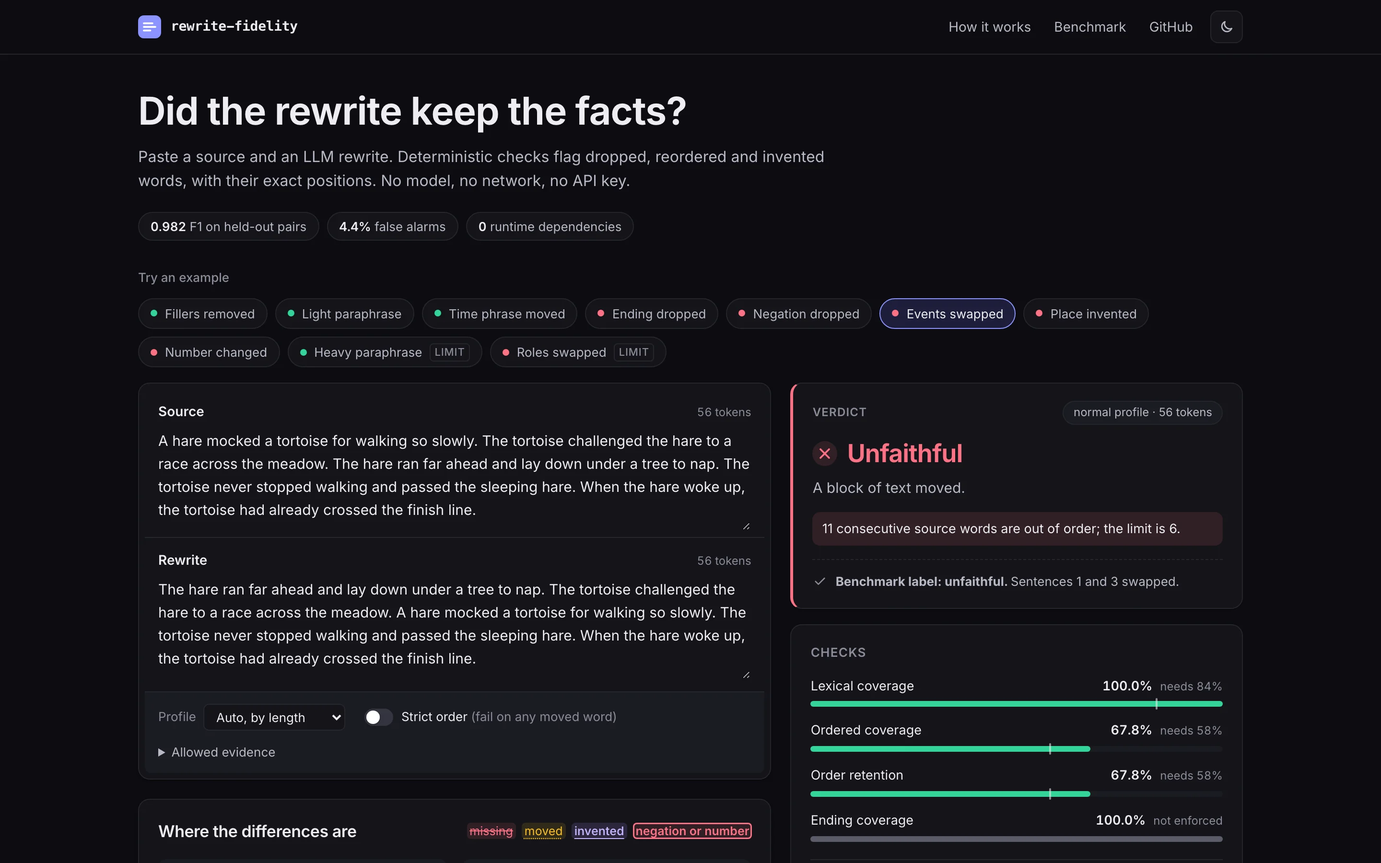
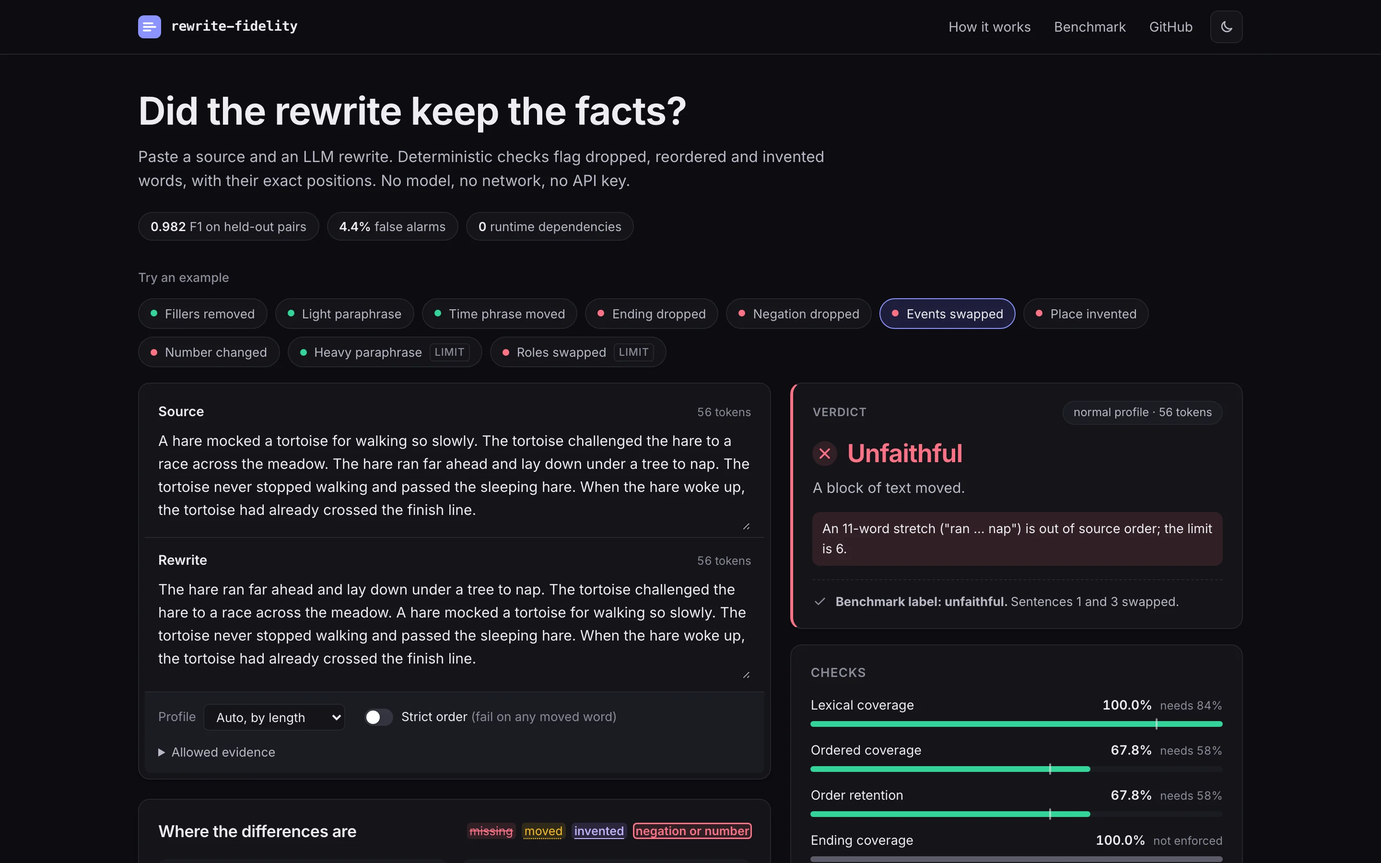
docs: README with the problem, architecture, benchmark results and design decisions
The benchmark section is generated by pnpm bench between markers and verified by pnpm bench:check. Includes Mermaid diagrams for the check pipeline and the forced-alignment state machine, a guarantees and failure-modes table, measured performance with machine and date, light and dark screenshots at desktop and phone sizes, and honest limitations. Failure messages now use the right article before a span length.

Changed region(s): [[0.5625, 0.7467, 0.9062, 1.0], [0.5625, 0.5911, 0.9062, 0.7156]]

diff --git a/bench/report.ts b/bench/report.ts
@@ -1,6 +1,7 @@
 import type { Thresholds } from "../src/profiles.js";
 import type { TypeRow } from "./evaluate.js";
 import type { Scores } from "./metrics.js";
+import { PERTURBATIONS, type PerturbationType } from "./perturb/index.js";
 
 export interface BenchmarkResults {
 	readonly corpus: {
@@ -38,6 +39,8 @@ export interface ResultSet {
 }
 
 const pct = (value: number) => `${(value * 100).toFixed(1)}%`;
+const count = (value: number) => value.toLocaleString("en-US");
+const describe = (type: string) => PERTURBATIONS[type as PerturbationType]?.description ?? type;
 const limit = (value: number) => (Number.isFinite(value) ? String(value) : "off");
 const ratio = (value: number) => (value === 0 ? "off" : value.toFixed(2));
 
@@ -52,7 +55,7 @@ export function benchmarkMarkdown(results: BenchmarkResults): string {
 		`| ${label} | ${pct(set.test.precision)} | ${pct(set.test.recall)} | ${set.test.f1.toFixed(3)} | ${pct(set.test.falsePositiveRate)} |`;
 
 	lines.push(
-		`Held-out half: **${cal.test.n} labeled pairs** (${corpus.pairs} in total: ${corpus.unfaithful} unfaithful, ${corpus.faithful} faithful) generated from ${corpus.documents.story} stories, ${corpus.documents.fable} fables, ${corpus.documents.notice} notices and ${corpus.phrases} short phrases. "Positive" means unfaithful.`,
+		`Held-out half: **${count(cal.test.n)} labeled pairs** (${count(corpus.pairs)} in total: ${count(corpus.unfaithful)} unfaithful, ${count(corpus.faithful)} faithful) generated from ${corpus.documents.story} stories, ${corpus.documents.fable} fables, ${corpus.documents.notice} notices and ${corpus.phrases} short phrases. "Positive" means unfaithful.`,
 		"",
 		"| Thresholds | Precision | Recall | F1 | False-alarm rate |",
 		"| --- | ---: | ---: | ---: | ---: |",
@@ -99,12 +102,12 @@ export function benchmarkMarkdown(results: BenchmarkResults): string {
 		"",
 		"| | Flagged | Passed |",
 		"| --- | ---: | ---: |",
-		`| Unfaithful | ${cal.test.tp} (true positive) | ${cal.test.fn} (missed) |`,
-		`| Faithful | ${cal.test.fp} (false alarm) | ${cal.test.tn} (true negative) |`,
+		`| Unfaithful | ${count(cal.test.tp)} (true positive) | ${count(cal.test.fn)} (missed) |`,
+		`| Faithful | ${count(cal.test.fp)} (false alarm) | ${count(cal.test.tn)} (true negative) |`,
 		"",
-		`**Operating points.** Chosen to maximize ${results.objective.description}, with each surface-only edit (${results.objective.cappedTypes.map((type) => type.replaceAll("_", " ")).join(", ")}) kept under a ${pct(results.objective.maxFalseAlarm)} false-alarm rate. Ratios are minimums, runs are maximums in content-word spans. **Bold** values decided the calibration; _italic_ values are guards, set at the strictest value that caused no false alarm on the calibration half; \`off\` means any value would have cost accuracy.`,
+		`**Operating points.** Chosen to maximize ${results.objective.description}, with each surface-only edit (${results.objective.cappedTypes.map((type) => describe(type).toLowerCase()).join(", ")}) kept under a ${pct(results.objective.maxFalseAlarm)} false-alarm rate. Ratios are minimums, runs are maximums in content-word spans. **Bold** values decided the calibration; _italic_ values are guards, set at the strictest value that caused no false alarm on the calibration half; \`off\` means any value would have cost accuracy.`,
 		"",
-		"| Profile | Ordered | Lexical | Order retention | Ending | Max dropped run | Max moved run | Calibration score |",
+		"| Profile | Ordered | Lexical | Order retention | Ending | Max dropped run | Max moved run | Calibration score (type-balanced F1) |",
 		"| --- | ---: | ---: | ---: | ---: | ---: | ---: | ---: |",
 	);
 	for (const name of ["short", "normal"] as const) {

diff --git a/src/decide.ts b/src/decide.ts
@@ -91,7 +91,9 @@ function percent(value: number) {
 }
 
 function stretch(length: number, words: string) {
-	return length === 1 ? `"${words}"` : `a ${length}-word stretch ("${words}")`;
+	if (length === 1) return `"${words}"`;
+	const article = String(length).startsWith("8") || length === 11 || length === 18 ? "an" : "a";
+	return `${article} ${length}-word stretch ("${words}")`;
 }
 
 function capitalize(text: string) {

diff --git a/README.md b/README.md
@@ -1,0 +1,288 @@
+# rewrite-fidelity
+
+Deterministic, explainable checks that catch an LLM rewrite dropping, reordering or inventing facts from a source text, with an adversarial benchmark that measures how well they work.
+
+![The playground flagging a rewrite that invented a place](docs/media/playground-light.webp)
+
+[![CI](https://github.com/Nadimul96/rewrite-fidelity/actions/workflows/ci.yml/badge.svg)](https://github.com/Nadimul96/rewrite-fidelity/actions/workflows/ci.yml)
+[![License: MIT](https://img.shields.io/badge/license-MIT-blue.svg)](LICENSE)
+![TypeScript strict](https://img.shields.io/badge/TypeScript-strict-3178c6)
+![Runtime dependencies: 0](https://img.shields.io/badge/runtime%20deps-0-brightgreen)
+
+## The problem
+
+You ask a model to clean up a transcript, tighten an incident note or reformat a notice, and it hands back fluent text that quietly says something else: a "not" is gone, 40 minutes became 45, the ending was dropped, two events swapped places, a city appeared that nobody mentioned. The usual defenses are embedding similarity or a second model acting as judge. Both are slow and costly at volume, neither gives the same answer twice for certain, and neither can point at the word that changed. A paraphrase and a fabrication can score the same cosine similarity.
+
+This library takes the opposite trade. It compares the two texts word by word, after normalizing what does not matter (case, punctuation, contractions, fillers, number words), and fails the rewrite with a reason and a character position for every missing, moved or invented word. It is strict by design: it accepts surface edits and rejects new vocabulary, which is the right contract for cleanup, formatting and tightening, and the wrong one for free paraphrase.
+
+## Why it's interesting
+
+- **One alignment, three independent checks.** A single longest-common-subsequence pass ([`src/lcs.ts`](src/lcs.ts)) feeds coverage, novelty and protected-content checks ([`src/check.ts`](src/check.ts), [`src/decide.ts`](src/decide.ts)). The LCS is Hirschberg's linear-memory variant with 32-bit rows and shared prefix and suffix trimming, replacing two duplicated 16-bit copies that silently wrapped past 65,535 matched tokens.
+- **Thresholds calibrated on held-out data, not set by hand.** An adversarial benchmark ([`bench/`](bench)) generates 3,626 labeled pairs from 13 kinds of unfaithful edit and 5 kinds of faithful one, calibrates on half the documents and reports on the other half. The calibrated profile lifts held-out F1 from 0.935 to 0.982 and cuts false alarms from 12.2% to 4.4%. CI fails if the committed numbers drift from the code.
+- **Spans, not just ratios.** A ratio dilutes with length: losing one sentence of thirty barely moves coverage. The decisive checks are content-word spans ([`src/runs.ts`](src/runs.ts)): no content word may be dropped, and in a normal-length text no block of more than six words may move. Function words inside a block are bridged, so the alignment borrowing a "the" cannot split a moved sentence in two.
+- **A second capability: forced alignment.** [`alignTranscript`](src/transcript.ts) puts ASR word timestamps onto the exact words of a script, keeps the script's punctuation and casing, interpolates at most a short unheard run inside a real measured gap, and otherwise fails with a typed reason instead of guessing.
+- **A playground that explains itself** ([`playground/`](playground)): paste two texts and see every gauge against its threshold and every changed word highlighted in place, with one-click examples taken straight from the benchmark generators.
+
+## Quickstart
+
+Requires Node 22 (see `.nvmrc`) and pnpm. No API keys, no network at run time.
+
+```bash
+git clone https://github.com/Nadimul96/rewrite-fidelity.git
+cd rewrite-fidelity
+pnpm install
+pnpm demo        # the CLI on bundled examples: one pass, one fail, one forced alignment
+pnpm dev         # the playground at http://localhost:5173
+```
+
+The CLI:
+
+```bash
+pnpm build
+node dist/cli/main.js check examples/incident.source.txt examples/incident.unfaithful.txt
+node dist/cli/main.js check source.txt rewrite.txt --json      # machine-readable, with line:column positions
+node dist/cli/main.js align script.txt asr-words.json --duration 12.4
+```
+
+Exit codes: `0` faithful (or aligned), `1` unfaithful (or the alignment failed honestly), `2` usage or input error.
+
+The library (not yet published to npm; build it and import from `dist/`):
+
+```ts
+import { checkFidelity } from "rewrite-fidelity";
+
+const report = checkFidelity(
+	"The courier did not sign for the 3 parcels at the Leeds depot on Monday.",
+	"The courier signed for the 4 parcels at the Leeds depot on Monday.",
+);
+
+report.passes; // false
+report.failures.map((failure) => failure.message);
+// 73.3% of source words appear at all; the normal profile needs 84%.
+// The rewrite drops a 6-word stretch ("did … 3"); the limit is 0.
+// The rewrite adds unsupported words: "signed", "4".
+// The rewrite drops "not", which flips a claim.
+// The rewrite loses the number "3".
+report.novel.map(({ text, start, end }) => [text, start, end]); // [["signed", 12, 18], ["4", 27, 28]]
+```
+
+## How it works
+
+```mermaid
+flowchart LR
+    S[Source text] --> N
+    R[Rewrite] --> N
+    N["Normalize<br/>NFKC, case, contractions,<br/>fillers, number words"] --> A["One LCS alignment<br/>(Hirschberg, linear memory)"]
+    A --> C1["Coverage<br/>lexical · ordered · order retention<br/>longest dropped / moved span"]
+    N --> C2["Novelty<br/>words with no support in<br/>source or allowed evidence"]
+    A --> C3["Protected content<br/>negations · numbers · ending"]
+    P["Length profile<br/>very short · short · normal<br/>(calibrated thresholds)"] --> D
+    C1 --> D{Decision}
+    C2 --> D
+    C3 --> D
+    D --> O["Report: verdict, reasons,<br/>every token with its position"]
+```
+
+1. **Normalize.** Both texts become token sequences that keep the character span of every surface word. "Didn't" becomes `did not` (both pointing at the same span), "three" becomes `3`, "3,000" becomes `3000`, "um" is dropped, and "you know" is dropped only when punctuation brackets it, so "you know him" stays. The tables live in a pluggable [`Locale`](src/locale.ts); English ships.
+2. **Align once.** The LCS pairs source and rewrite tokens that survive in order. Unaligned tokens that still match each other are *moved*; source tokens left over are *missing*; rewrite tokens left over are *extra*, and extra tokens that are neither function words nor supported by the source or the supplied evidence are *novel*.
+3. **Decide.** The profile is chosen by source length. Ratios and span lengths are compared with its thresholds; an invented word, a flipped negation or a lost number fails under any profile.
+
+The same LCS anchors rewrite segments (captions, bullets, paragraphs) back to the source span each one covers ([`anchorSegments`](src/anchor.ts)), replacing a greedy matcher whose first forward hit on a common word skipped past text a later segment needed.
+
+`alignTranscript` follows its own small state machine:
+
+```mermaid
+stateDiagram-v2
+    [*] --> Validate
+    Validate --> Failed: empty script / malformed timing / bad duration
+    Validate --> Align
+    Align --> Failed: under 80% of script heard, or under 70% of transcript matches
+    Align --> Fill
+    Fill --> Fill: unheard run of at most 3 words inside a measured gap
+    Fill --> Failed: longer run, or gap under 0.03 s per word
+    Fill --> Aligned: every script word has measured or interpolated timing
+    Aligned --> [*]
+    Failed --> [*]
+```
+
+## Benchmark
+
+`pnpm bench` builds the dataset from four sources: 30 four-beat stories (adapted from a golden test set in the private product this was extracted from, rewritten as neutral generic anecdotes), 16 Aesop fables retold in original wording, 16 synthetic operational notices dense with names, places and numbers, and 36 very short phrases. Each document, each sentence and each phrase is a unit; every applicable perturbation of every unit is a labeled pair.
+
+- **Unfaithful (should flag):** drop the ending, a middle sentence, scattered details, a trailing time or place phrase, or a negation; swap two events or reorder all of them; insert a new name, place or number; replace a number or a name; swap who did what.
+- **Faithful (should pass):** punctuation and casing changes, filler removal, light paraphrase (contractions, number format, article swaps, merged sentences), moving a time or place phrase to the front, and hand-written paraphrases.
+
+Documents are split in half, stratified by kind, with every sentence staying on its document's side. Thresholds are chosen on the calibration half to maximize type-balanced F1 (each perturbation type weighs the same, so nearly 200 inserted names cannot drown out a dozen role swaps), subject to every surface-only edit staying under a 10% false-alarm rate. The numbers below are from the other half. They are deterministic; `pnpm bench:check` recomputes them in CI.
+
+<!-- benchmark:start -->
+Held-out half: **1,816 labeled pairs** (3,626 in total: 2,393 unfaithful, 1,233 faithful) generated from 30 stories, 16 fables, 16 notices and 36 short phrases. "Positive" means unfaithful.
+
+| Thresholds | Precision | Recall | F1 | False-alarm rate |
+| --- | ---: | ---: | ---: | ---: |
+| Hand-set (original 0.78 / 0.82 / 0.90) | 93.7% | 93.3% | 0.935 | 12.2% |
+| **Calibrated (default)** | 97.8% | 98.7% | 0.982 | 4.4% |
+| Strict variant (`maxMovedRun: 0`) | 92.8% | 100.0% | 0.963 | 15.1% |
+
+**By length profile** (held-out half, calibrated default)
+
+| Profile | Pairs | Precision | Recall | F1 | Hand-set F1 |
+| --- | ---: | ---: | ---: | ---: | ---: |
+| very_short | 132 | 90.1% | 100.0% | 0.948 | 0.948 |
+| short | 659 | 98.6% | 98.8% | 0.987 | 0.936 |
+| normal | 1025 | 98.3% | 98.4% | 0.984 | 0.933 |
+
+**By perturbation type** (held-out half). Share of pairs flagged: recall for unfaithful rows, false-alarm rate for faithful rows.
+
+| Perturbation | Label | Pairs | Hand-set | Calibrated | Strict | Checks that fired (calibrated) |
+| --- | --- | ---: | ---: | ---: | ---: | --- |
+| Drop the ending | unfaithful | 183 | 100.0% | 100.0% | 100.0% | dropped span (182), lexical coverage (165), ordered coverage (60) |
+| Drop a middle sentence | unfaithful | 31 | 90.3% | 100.0% | 100.0% | dropped span (31), lexical coverage (27), negation (8) |
+| Drop scattered details | unfaithful | 143 | 65.7% | 100.0% | 100.0% | dropped span (143), lexical coverage (41), negation (11) |
+| Drop a time or place phrase | unfaithful | 66 | 71.2% | 100.0% | 100.0% | dropped span (66), lexical coverage (39), number (7) |
+| Drop a negation | unfaithful | 42 | 100.0% | 100.0% | 100.0% | dropped span (42), negation (42), ordered coverage (4) |
+| Swap two events | unfaithful | 25 | 100.0% | 96.0% | 100.0% | moved span (24), ordered coverage (11), order retention (11) |
+| Reorder every event | unfaithful | 25 | 100.0% | 100.0% | 100.0% | moved span (25), ordered coverage (19), order retention (19) |
+| Insert a new name | unfaithful | 183 | 100.0% | 100.0% | 100.0% | novel tokens (183) |
+| Insert a new place | unfaithful | 183 | 100.0% | 100.0% | 100.0% | novel tokens (183) |
+| Insert a new number | unfaithful | 183 | 100.0% | 100.0% | 100.0% | novel tokens (183) |
+| Replace a number | unfaithful | 53 | 100.0% | 100.0% | 100.0% | dropped span (53), number (53), novel tokens (52) |
+| Replace a name | unfaithful | 67 | 100.0% | 100.0% | 100.0% | dropped span (67), novel tokens (67), ordered coverage (3) |
+| Swap who did what | unfaithful | 15 | 40.0% | 0.0% | 100.0% | none |
+| Punctuation and casing | faithful | 183 | 0.0% | 0.0% | 0.0% | none |
+| Remove fillers | faithful | 183 | 0.0% | 0.0% | 0.0% | none |
+| Light paraphrase | faithful | 166 | 4.2% | 4.8% | 4.8% | lexical coverage (8), ordered coverage (7) |
+| Move a time or place phrase | faithful | 66 | 74.2% | 0.0% | 100.0% | none |
+| Heavy paraphrase (hand-written) | faithful | 19 | 100.0% | 100.0% | 100.0% | lexical coverage (19), dropped span (19), novel tokens (19) |
+
+**Confusion matrix** (held-out half, calibrated default)
+
+| | Flagged | Passed |
+| --- | ---: | ---: |
+| Unfaithful | 1,183 (true positive) | 16 (missed) |
+| Faithful | 27 (false alarm) | 590 (true negative) |
+
+**Operating points.** Chosen to maximize type-balanced F1 on the calibration half, with each surface-only edit (punctuation and casing, remove fillers, light paraphrase, move a time or place phrase) kept under a 10.0% false-alarm rate. Ratios are minimums, runs are maximums in content-word spans. **Bold** values decided the calibration; _italic_ values are guards, set at the strictest value that caused no false alarm on the calibration half; `off` means any value would have cost accuracy.
+
+| Profile | Ordered | Lexical | Order retention | Ending | Max dropped run | Max moved run | Calibration score (type-balanced F1) |
+| --- | ---: | ---: | ---: | ---: | ---: | ---: | ---: |
+| short (hand-set) | 0.50 | 0.55 | 0.70 | 1.00 | off | off | |
+| short (calibrated) | _0.50_ | _0.77_ | _0.50_ | off | **0** | _5_ | 0.900 |
+| normal (hand-set) | 0.78 | 0.82 | 0.90 | 1.00 | off | off | |
+| normal (calibrated) | _0.58_ | _0.84_ | _0.58_ | off | **0** | **6** | 0.921 |
+| very_short (fixed) | 1.00 | 1.00 | 1.00 | 1.00 | 0 | 0 | |
+<!-- benchmark:end -->
+
+Read the strict variant as the other end of one trade-off: `maxMovedRun: 0` catches every role swap and every reordered event, and rejects every rewrite that moves "at 7:40" to the front of its sentence. The default tolerates that move and so misses swapped roles, which only move two words.
+
+### Performance
+
+Median wall-clock times from `pnpm bench:perf` on an Apple M1 (16 GB), macOS, Node 22.22, measured 2026-10-12 on a shared machine. The raw numbers are in [`bench/results/perf.json`](bench/results/perf.json).
+
+| Input | Time |
+| --- | ---: |
+| All 3,626 benchmark pairs (mostly 10 to 80 tokens) | 117 ms, about 31,000 checks per second |
+| 10,000-token document, one local edit | 16 ms |
+| 10,000-token document, 20 scattered edits | 329 ms |
+| 20,000-token document, 20 scattered edits | 1.8 s |
+| 70,000-token identical texts (the old 16-bit overflow case) | 119 ms |
+
+Time is O(n·m) in the part of the texts that differs and memory is linear. Beyond a cell budget (400 million by default, configurable) the check throws a `RangeError` instead of running for minutes.
+
+## Screenshots
+
+| Light | Dark |
+| --- | --- |
+| ![Light theme, desktop](docs/media/playground-light.webp) | ![Dark theme, desktop, swapped events](docs/media/playground-dark.webp) |
+
+| Phone, light | Phone, dark |
+| --- | --- |
+| <img src="docs/media/playground-mobile-light.webp" alt="Phone, light theme, dropped negation" width="300"> | <img src="docs/media/playground-mobile-dark.webp" alt="Phone, dark theme, a faithful moved phrase" width="300"> |
+
+The full page, including the highlighted diff and the benchmark table: [`docs/media/playground-full.webp`](docs/media/playground-full.webp).
+
+## Guarantees and failure modes
+
+| Situation | What happens |
+| --- | --- |
+| Rewrite identical to the source (any text, any script) | Passes with every metric at 100%. Property-tested on arbitrary strings. |
+| Any content word dropped (normal and short profiles) | Fails with `dropped_span`, naming the first and last word of the longest stretch. |
+| A negation dropped or added, including inside "didn't" | Fails with `negation`, whatever the coverage. |
+| A source number missing (including "three" vs "3" handled as equal) | Fails with `number`. |
+| A word in the rewrite that the source and the evidence cannot account for | Fails with `novel_tokens`, with its position in the rewrite. |
+| A block of more than 6 words moved (normal profile) | Fails with `moved_span`. Smaller moves pass by default; `maxMovedRun: 0` fails them. |
+| Texts of 1 to 4 comparable words | Exact match required: one word can be the whole claim. |
+| Faithful rewrite with synonyms | Fails. This is the main false-alarm source: all 42 hand-written paraphrases are rejected. Use `allowedEvidence` for known facts, or a semantic method. |
+| Subject and object swapped ("Maya hit John" to "John hit Maya") | Passes at the default profile. Use `maxMovedRun: 0` when roles matter. |
+| Input too large for the cell budget after trimming | Throws `RangeError` with the cell count. |
+| ASR words malformed, too few matching, or a gap too small | `alignTranscript` returns `{ ok: false, reason }`; it never invents timing. |
+
+## Design decisions
+
+**LCS over embeddings or an LLM judge.** An LCS alignment is deterministic, runs in milliseconds with no model or key, and every decision traces to token positions a person can check. The alternative, embedding similarity, gives one number that cannot say which word changed and scores a fluent fabrication close to a faithful paraphrase; an LLM judge adds cost, latency and run-to-run variance at exactly the step meant to remove uncertainty. The price is that synonyms look like inventions, which the benchmark measures rather than hides.
+
+**Multiset coverage and order, not one score.** Lexical coverage (a multiset overlap) says what survived; order retention (LCS over overlap) says whether it stayed in order. Kept apart, "every word present but the events reversed" and "half the text missing" are different, explainable failures. A single edit distance would blur them. Calibration showed ordered coverage is mostly implied by the other two (it is their product), so it survives only as a guard.
+
+**Novel tokens as their own check.** Coverage only looks at the source, so a rewrite can keep every source word and still add "at the airport". Checking every content word of the rewrite against the source plus optional evidence closes that gap with no threshold at all. Function words ("the", "then", "also") are allowed so a rewrite can re-join sentences; pronoun case changes ("I" to "me") are allowed; "because" is not, since adding it invents causality.
+
+**Length profiles.** Losing one token of four is a different claim; losing one of sixty is often an article. Texts of 1 to 4 comparable words must match exactly, 5 to 11 use the short profile and 12 or more the normal one. The rejected alternative was a single threshold, which is either too loose for short texts or too strict for long ones.
+
+**Calibrated spans, with unused checks kept as guards.** The original thresholds (78% ordered, 82% lexical, 90% retention, the whole ending in order) were set by hand. On the benchmark they missed a third of scattered-detail drops and flagged 74% of faithful moved phrases. Calibration found that span checks separate the classes better than ratios, set the binding thresholds at the middle of their equally good range, and kept the ratio checks that did not bind as guards at the strictest value that caused no false alarm, so a fully reversed story still fails. The ending check was switched off: any value conflicts with legitimately moving "at noon" to the front, and the dropped-span check already catches a lost ending.
+
+**Hirschberg for the alignment.** A full DP table for 20,000 by 20,000 tokens is 1.6 GB at four bytes a cell; Hirschberg recovers the same alignment in linear memory for about twice the arithmetic, and trimming the shared prefix and suffix first makes the common case (a few local edits) nearly linear.
+
+## API
+
+| Function | Purpose |
+| --- | --- |
+| `checkFidelity(source, rewrite, options?)` | The report: `passes`, `failures` (code and message), `profile`, `metrics`, `missing` / `novel` / `moved` tokens with positions, `negations`, `numbers`, `spans`, `payoff`, the raw `alignment` and both token lists. |
+| `alignTranscript(script, words, options?)` | `{ ok: true, words }` with each script word timed as `measured` or `interpolated`, or `{ ok: false, reason, message }`. |
+| `anchorSegments(source, segments, options?)` | For each segment, the source token and character range it covers and its match ratio, or `null` when the match is too weak. |
+| `findQuote(source, quote, range?)` / `checkPartition(source, parts)` | Verbatim checks: is a quote really in the source; did a split keep every word exactly once. |
+| `tokenize(text, locale?)`, `lcsAlignment(a, b)`, `longestSpan(status, glue)` | The building blocks, exported for reuse. |
+
+### Options for `checkFidelity`
+
+| Option | Default | What it does |
+| --- | --- | --- |
+| `profile` | chosen by length | Force `very_short`, `short` or `normal`. |
+| `thresholds` | the profile's | Override any of `ordered`, `lexical`, `orderRetention`, `payoff`, `maxMissingRun`, `maxMovedRun`. |
+| `profiles` | `PROFILES` | Supply your own calibrated profile table. |
+| `allowedEvidence` | `[]` | Extra texts whose words the rewrite may use (facts confirmed later). |
+| `requirePayoff` | `true` | Enforce the ending threshold when it is above 0. |
+| `locale` | `english` | Contractions, fillers, function words, negations, number words. |
+| `maxCells` | 400,000,000 | Alignment budget after trimming; above it the call throws. |
+
+### Environment
+
+| Variable | Required | Default | What it does |
+| --- | --- | --- | --- |
+| `NO_COLOR` | no | unset | Disables ANSI colors in CLI output. |
+| `CHROMIUM_PATH` | only for `pnpm screenshots` | Playwright's cached headless shell | Chromium binary used to capture the README screenshots. Nothing is downloaded. |
+
+## Development
+
+```bash
+pnpm lint            # Biome, zero warnings
+pnpm typecheck       # TypeScript 7, strict, noUncheckedIndexedAccess
+pnpm test            # Vitest: unit, property-based (fast-check), CLI and benchmark-generator tests
+pnpm build           # library and CLI to dist/
+pnpm build:playground
+pnpm bench           # regenerate bench/results/benchmark.json and the table above
+pnpm bench:check     # fail if either is out of date (runs in CI)
+pnpm bench:perf      # timings on this machine
+pnpm screenshots     # rebuild docs/media/*.webp
+```
+
+The repository layout: `src/` is the library (zero runtime dependencies), `src/cli/` the command line, `bench/` the corpus, perturbations, calibration and results, `playground/` the web app, `test/` the tests, `examples/` the demo inputs.
+
+## Limitations
+
+- **Lexical, by design.** Synonyms and restructured sentences count as invented words. All 42 hand-written paraphrases in the benchmark are rejected. If your rewrites are meant to paraphrase, this is a pre-filter, not a judge.
+- **English first.** The algorithms are language-neutral, but only the English locale ships, and the benchmark is English only.
+- **Role swaps pass by default.** Two names exchanging places is a two-word move; catching it with `maxMovedRun: 0` also rejects harmless clause moves.
+- **The benchmark is synthetic.** Perturbations are generated by rules from a small corpus, and the faithful controls never drop a content word, which is why the calibration could require that none is dropped. Real model outputs are messier; treat the numbers as evidence about these failure modes, not as a guarantee on your data.
+- **Quadratic in the differing region.** Long documents with many scattered edits take seconds; a Myers-style O((n+m)·d) diff is the obvious next step.
+
+## License
+
+[MIT](LICENSE) © 2026 Nadimul Haque
